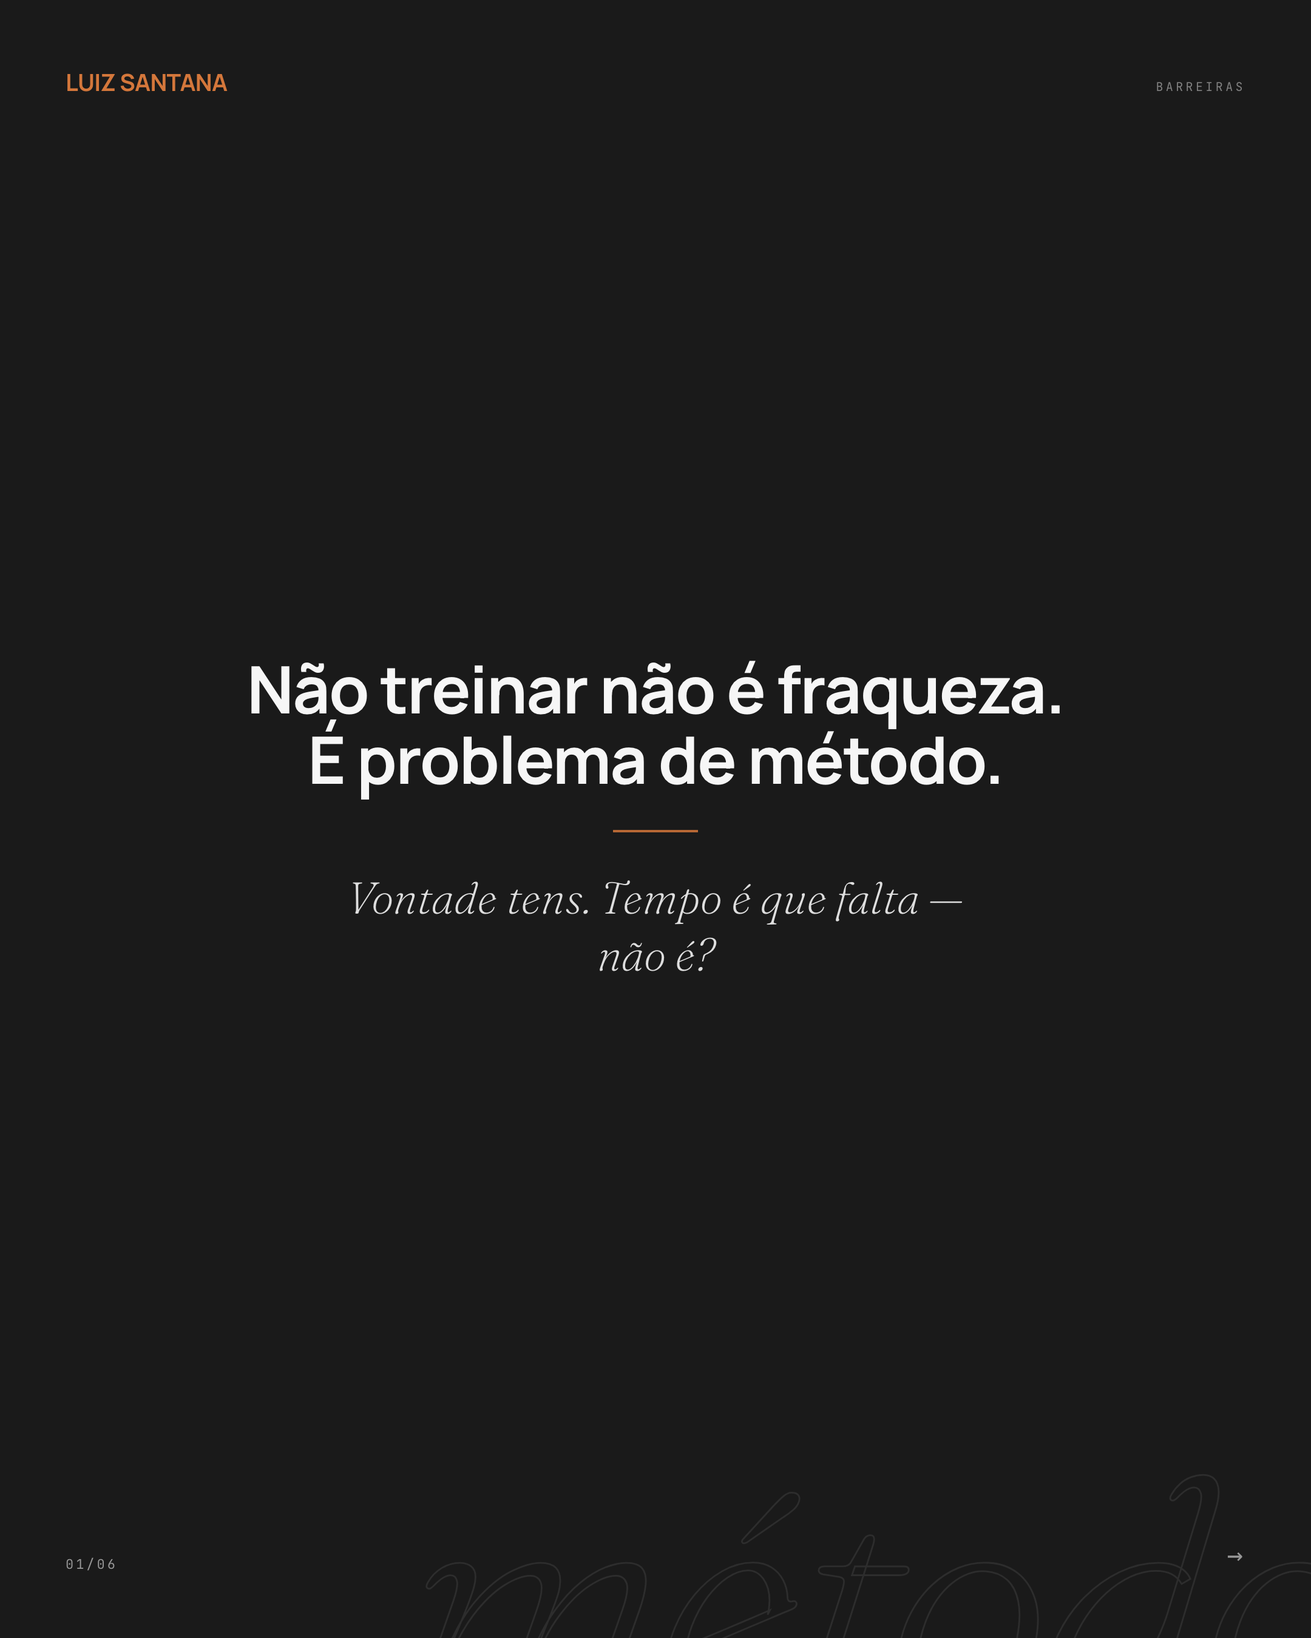
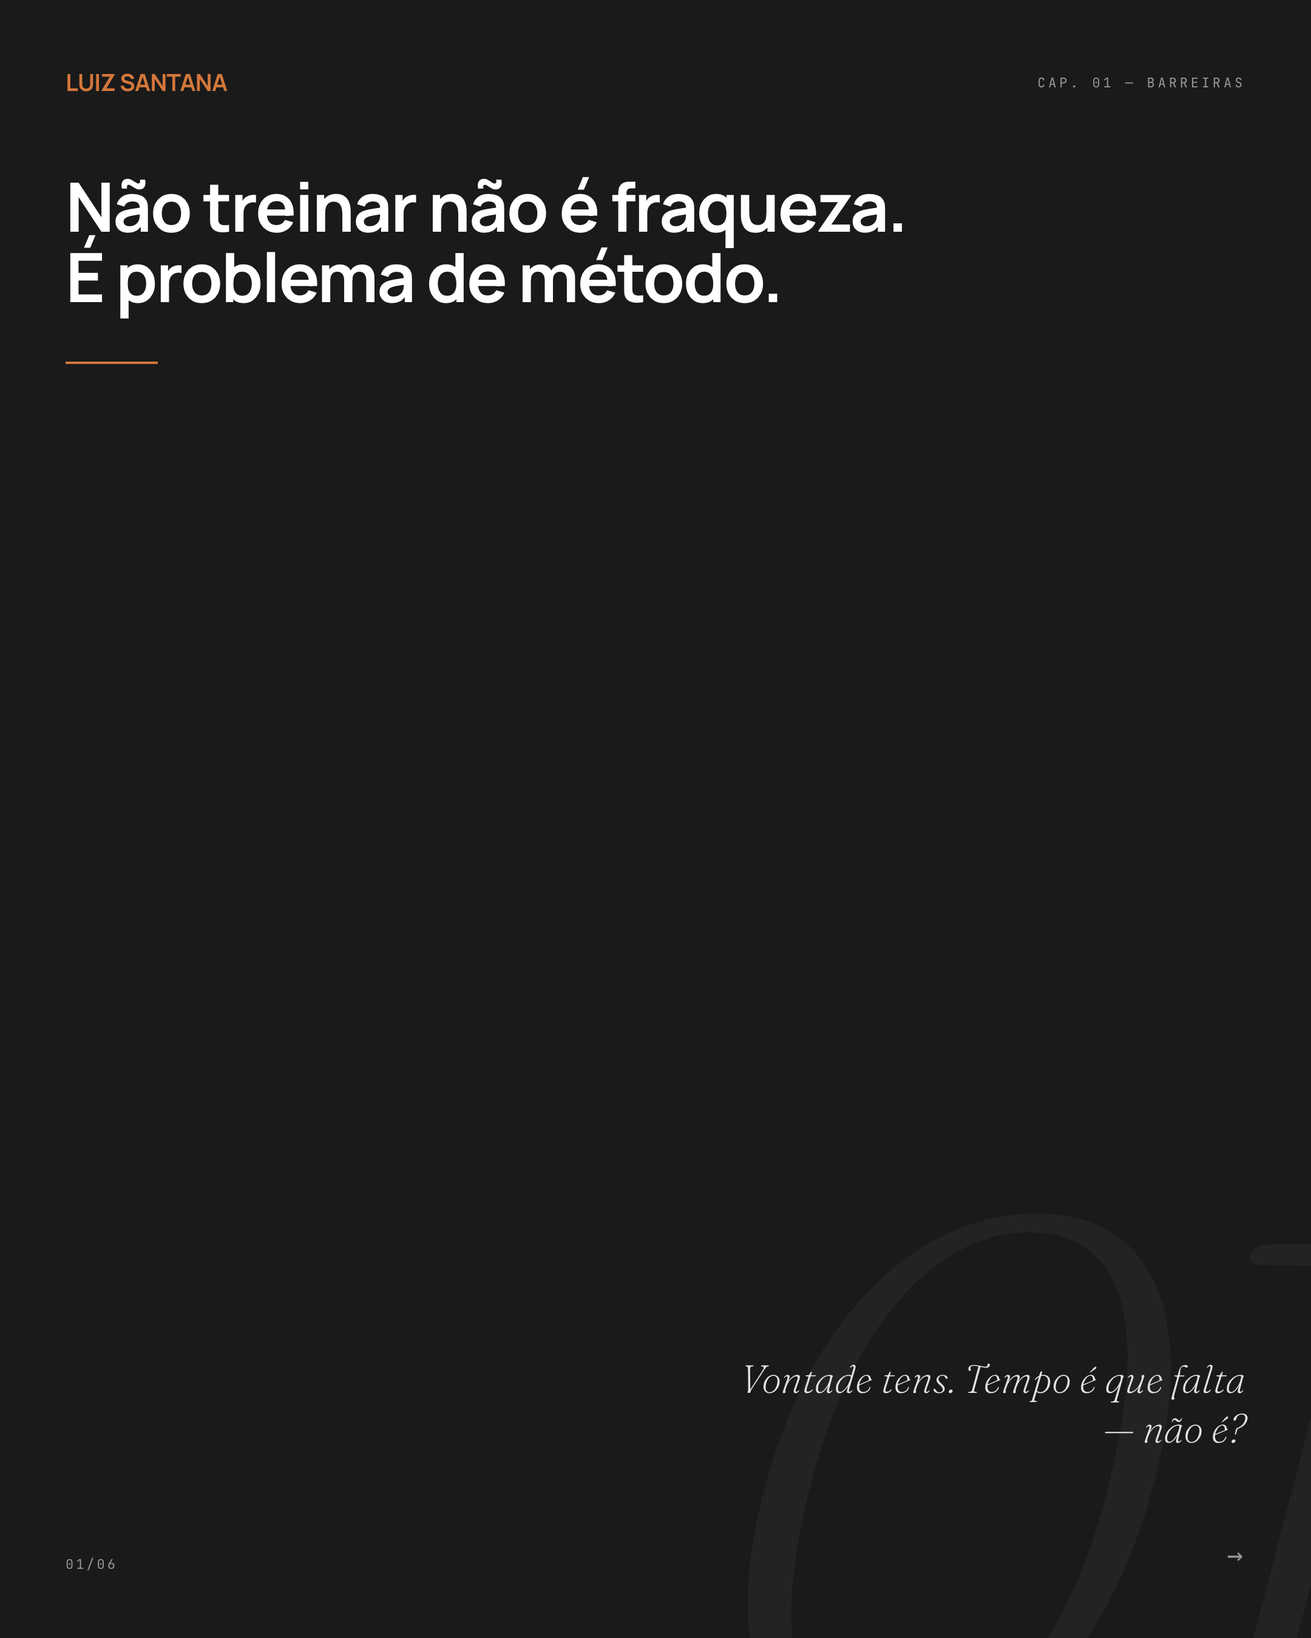
revert(luiz): slide-1 dos 4 carrosséis volta à capa alinhada à esquerda
Recupera a versão do slide 1 anterior ao commit 6a003df ("capa editorial"
centrada), a pedido do cliente. Reversão cirúrgica: só o slide 1 (bloco CSS
#slide-1 + <article id="slide-1"> + slide_01.png/jpg) volta atrás; slides 2-6
ficam intactos, incluindo a correção eletroestimulação (b2a4f3a) e o bloco
"coerência interiores".

c02 e c04 re-renderizados após corrigir a grafia da versão antiga
("Electroestimulação"→"Eletroestimulação", "EMS"→"Eletroestimulação") —
0 ocorrências de EMS/Electro nos 4 slides. APP_VERSION 20260527-1230.

diff --git a/public/aprovacao-luiz-202605/brands/luiz_santana/output/2026-05/carrosseis/c04-b2b-ferramenta.html b/public/aprovacao-luiz-202605/brands/luiz_santana/output/2026-05/carrosseis/c04-b2b-ferramenta.html
@@ -142,16 +142,16 @@ h1, h2, h3, p, blockquote, .num {
   text-wrap: pretty;
 }
 
-/* slide-1 editorial cover v7 */
-#slide-1 { padding: clamp(36px, 5vw, 64px) !important; overflow: hidden; }
-#slide-1 .slide__top { gap: clamp(16px, 3vw, 32px); align-items: baseline; }
-#slide-1 .cap-index { font-family: var(--font-mono); font-size: 10px; letter-spacing: 0.22em; text-transform: uppercase; color: rgba(255,255,255,0.45); }
-#slide-1 .bg-word { position: absolute; bottom: -6vh; right: -3vw; font-family: var(--font-serif); font-style: italic; font-weight: 200; font-size: clamp(170px, 26vw, 320px); color: transparent; -webkit-text-stroke: 1.4px rgba(255,255,255,0.085); letter-spacing: -0.045em; line-height: 0.82; user-select: none; pointer-events: none; z-index: 0; white-space: nowrap; text-transform: lowercase; }
-#slide-1.slide--photo .bg-word { -webkit-text-stroke: 1.4px rgba(255,255,255,0.18); }
-#slide-1 .slide__body { display: grid !important; grid-template-rows: auto auto auto !important; align-content: center !important; justify-items: center !important; gap: clamp(18px, 2.8vh, 30px) !important; position: relative; z-index: 1; padding-top: 0 !important; padding-bottom: 0 !important; }
-#slide-1 .slide__body h1 { font-family: var(--font-display) !important; font-weight: 600 !important; font-size: clamp(32px, 5vw, 58px) !important; line-height: 1.08 !important; letter-spacing: -0.02em !important; max-width: 22ch !important; justify-self: center !important; text-align: center; text-wrap: balance; color: rgba(255,255,255,0.96); }
-#slide-1 .accent-rule { width: clamp(40px, 6.5vw, 80px); height: 2px; background: var(--accent); justify-self: center !important; opacity: 0.85; }
-#slide-1 .slide__hook { font-family: var(--font-serif) !important; font-style: italic; font-weight: 300; font-size: clamp(24px, 3.4vw, 38px) !important; line-height: 1.28; color: rgba(255,255,255,0.86) !important; max-width: 24ch !important; justify-self: center !important; text-align: center; text-wrap: pretty; }
+/* slide-1 editorial cover v3 */
+#slide-1 { padding: clamp(36px, 5vw, 64px) !important; }
+#slide-1 .slide__top { gap: clamp(16px, 3vw, 32px); }
+#slide-1 .cap-index { font-family: var(--font-mono); font-size: 11px; letter-spacing: 0.22em; text-transform: uppercase; color: rgba(255,255,255,0.55); }
+#slide-1 .bg-number { position: absolute; bottom: -10%; right: -6%; font-family: var(--font-serif); font-style: italic; font-weight: 200; font-size: clamp(360px, 58vw, 760px); color: rgba(255,255,255,0.045); line-height: 0.85; letter-spacing: -0.06em; user-select: none; pointer-events: none; z-index: 0; }
+#slide-1.slide--photo .bg-number { display: none; }
+#slide-1 .slide__body { display: grid !important; grid-template-rows: auto auto 1fr auto !important; align-content: stretch !important; gap: clamp(20px, 3.2vh, 40px) !important; position: relative; z-index: 1; padding-top: clamp(20px, 5vh, 60px); padding-bottom: clamp(10px, 3vh, 30px); }
+#slide-1 .slide__body h1 { font-family: var(--font-display) !important; font-weight: 700 !important; font-size: clamp(32px, 5.2vw, 68px) !important; line-height: 1.04 !important; letter-spacing: -0.025em !important; max-width: 19ch !important; justify-self: start; text-wrap: balance; }
+#slide-1 .accent-rule { width: clamp(44px, 7vw, 96px); height: 2px; background: var(--accent); justify-self: start; align-self: start; }
+#slide-1 .slide__hook { font-family: var(--font-serif) !important; font-style: italic; font-weight: 200; font-size: clamp(22px, 3vw, 40px) !important; line-height: 1.25; color: rgba(255,255,255,0.88) !important; max-width: 22ch !important; justify-self: end !important; text-align: right; align-self: end; text-wrap: pretty; }
 #slide-1.slide--photo .slide__hook { color: rgba(255,255,255,0.96) !important; text-shadow: 0 2px 18px rgba(0,0,0,0.45); }
 #slide-1.slide--photo .slide__body h1 { text-shadow: 0 2px 22px rgba(0,0,0,0.55); }
 /* coerência interiores */
@@ -165,12 +165,12 @@ h1, h2, h3, p, blockquote, .num {
 
 <article class="slide slide--type" id="slide-1">
   
-  <div class="bg-word" aria-hidden="true">negócio</div>
-  <div class="slide__top"><span class="brand-glyph">Luiz Santana</span><span class="cap-index">Negócio</span></div>
+  <div class="bg-number" aria-hidden="true">04</div>
+  <div class="slide__top"><span class="brand-glyph">Luiz Santana</span><span class="cap-index">Cap. 04 — Negócio</span></div>
   <div class="slide__body">
     <h1>Eletroestimulação não é&nbsp;só treino. É&nbsp;linha de&nbsp;negócio.</h1>
     <div class="accent-rule"></div>
-    <p class="slide__hook">Treinar menos, ganhar mais — e&nbsp;os teus clientes agradecem.</p>
+    <p class="slide__hook">Tens um espaço parado — ou&nbsp;uma linha de&nbsp;receita por abrir?</p>
   </div>
   <div class="slide__bottom"><span>01/06</span><span class="arrow">→</span></div>
 </article>

diff --git a/public/aprovacao-luiz-202605/brands/luiz_santana/output/2026-05/carrosseis/c02-metodo-ciencia.html b/public/aprovacao-luiz-202605/brands/luiz_santana/output/2026-05/carrosseis/c02-metodo-ciencia.html
@@ -142,16 +142,16 @@ h1, h2, h3, p, blockquote, .num {
   text-wrap: pretty;
 }
 
-/* slide-1 editorial cover v7 */
-#slide-1 { padding: clamp(36px, 5vw, 64px) !important; overflow: hidden; }
-#slide-1 .slide__top { gap: clamp(16px, 3vw, 32px); align-items: baseline; }
-#slide-1 .cap-index { font-family: var(--font-mono); font-size: 10px; letter-spacing: 0.22em; text-transform: uppercase; color: rgba(255,255,255,0.45); }
-#slide-1 .bg-word { position: absolute; bottom: -6vh; right: -3vw; font-family: var(--font-serif); font-style: italic; font-weight: 200; font-size: clamp(170px, 26vw, 320px); color: transparent; -webkit-text-stroke: 1.4px rgba(255,255,255,0.085); letter-spacing: -0.045em; line-height: 0.82; user-select: none; pointer-events: none; z-index: 0; white-space: nowrap; text-transform: lowercase; }
-#slide-1.slide--photo .bg-word { -webkit-text-stroke: 1.4px rgba(255,255,255,0.18); }
-#slide-1 .slide__body { display: grid !important; grid-template-rows: auto auto auto !important; align-content: center !important; justify-items: center !important; gap: clamp(18px, 2.8vh, 30px) !important; position: relative; z-index: 1; padding-top: 0 !important; padding-bottom: 0 !important; }
-#slide-1 .slide__body h1 { font-family: var(--font-display) !important; font-weight: 600 !important; font-size: clamp(32px, 5vw, 58px) !important; line-height: 1.08 !important; letter-spacing: -0.02em !important; max-width: 22ch !important; justify-self: center !important; text-align: center; text-wrap: balance; color: rgba(255,255,255,0.96); }
-#slide-1 .accent-rule { width: clamp(40px, 6.5vw, 80px); height: 2px; background: var(--accent); justify-self: center !important; opacity: 0.85; }
-#slide-1 .slide__hook { font-family: var(--font-serif) !important; font-style: italic; font-weight: 300; font-size: clamp(24px, 3.4vw, 38px) !important; line-height: 1.28; color: rgba(255,255,255,0.86) !important; max-width: 24ch !important; justify-self: center !important; text-align: center; text-wrap: pretty; }
+/* slide-1 editorial cover v3 */
+#slide-1 { padding: clamp(36px, 5vw, 64px) !important; }
+#slide-1 .slide__top { gap: clamp(16px, 3vw, 32px); }
+#slide-1 .cap-index { font-family: var(--font-mono); font-size: 11px; letter-spacing: 0.22em; text-transform: uppercase; color: rgba(255,255,255,0.55); }
+#slide-1 .bg-number { position: absolute; bottom: -10%; right: -6%; font-family: var(--font-serif); font-style: italic; font-weight: 200; font-size: clamp(360px, 58vw, 760px); color: rgba(255,255,255,0.045); line-height: 0.85; letter-spacing: -0.06em; user-select: none; pointer-events: none; z-index: 0; }
+#slide-1.slide--photo .bg-number { display: none; }
+#slide-1 .slide__body { display: grid !important; grid-template-rows: auto auto 1fr auto !important; align-content: stretch !important; gap: clamp(20px, 3.2vh, 40px) !important; position: relative; z-index: 1; padding-top: clamp(20px, 5vh, 60px); padding-bottom: clamp(10px, 3vh, 30px); }
+#slide-1 .slide__body h1 { font-family: var(--font-display) !important; font-weight: 700 !important; font-size: clamp(32px, 5.2vw, 68px) !important; line-height: 1.04 !important; letter-spacing: -0.025em !important; max-width: 19ch !important; justify-self: start; text-wrap: balance; }
+#slide-1 .accent-rule { width: clamp(44px, 7vw, 96px); height: 2px; background: var(--accent); justify-self: start; align-self: start; }
+#slide-1 .slide__hook { font-family: var(--font-serif) !important; font-style: italic; font-weight: 200; font-size: clamp(22px, 3vw, 40px) !important; line-height: 1.25; color: rgba(255,255,255,0.88) !important; max-width: 22ch !important; justify-self: end !important; text-align: right; align-self: end; text-wrap: pretty; }
 #slide-1.slide--photo .slide__hook { color: rgba(255,255,255,0.96) !important; text-shadow: 0 2px 18px rgba(0,0,0,0.45); }
 #slide-1.slide--photo .slide__body h1 { text-shadow: 0 2px 22px rgba(0,0,0,0.55); }
 /* coerência interiores */
@@ -165,12 +165,12 @@ h1, h2, h3, p, blockquote, .num {
 
 <article class="slide slide--photo" id="slide-1">
   
-  <div class="bg-word" aria-hidden="true">evidência</div>
-  <div class="slide__top"><span class="brand-glyph">Luiz Santana</span><span class="cap-index">Método</span></div>
+  <div class="bg-number" aria-hidden="true">02</div>
+  <div class="slide__top"><span class="brand-glyph">Luiz Santana</span><span class="cap-index">Cap. 02 — Método</span></div>
   <div class="slide__body">
     <h1>Eletroestimulação — o&nbsp;que a&nbsp;evidência mostra.</h1>
     <div class="accent-rule"></div>
-    <p class="slide__hook">Treinar pouco pode dar mais resultado? A&nbsp;ciência diz que sim.</p>
+    <p class="slide__hook">Treinas há&nbsp;anos. Quantas fibras estás mesmo a&nbsp;activar?</p>
   </div>
   <div class="slide__bottom"><span>01/06</span><span class="arrow">→</span></div>
 </article>

diff --git a/public/aprovacao-luiz-202605/brands/luiz_santana/output/2026-05/carrosseis/c03-origem-percurso.html b/public/aprovacao-luiz-202605/brands/luiz_santana/output/2026-05/carrosseis/c03-origem-percurso.html
@@ -142,16 +142,16 @@ h1, h2, h3, p, blockquote, .num {
   text-wrap: pretty;
 }
 
-/* slide-1 editorial cover v7 */
-#slide-1 { padding: clamp(36px, 5vw, 64px) !important; overflow: hidden; }
-#slide-1 .slide__top { gap: clamp(16px, 3vw, 32px); align-items: baseline; }
-#slide-1 .cap-index { font-family: var(--font-mono); font-size: 10px; letter-spacing: 0.22em; text-transform: uppercase; color: rgba(255,255,255,0.45); }
-#slide-1 .bg-word { position: absolute; bottom: -6vh; right: -3vw; font-family: var(--font-serif); font-style: italic; font-weight: 200; font-size: clamp(170px, 26vw, 320px); color: transparent; -webkit-text-stroke: 1.4px rgba(255,255,255,0.085); letter-spacing: -0.045em; line-height: 0.82; user-select: none; pointer-events: none; z-index: 0; white-space: nowrap; text-transform: lowercase; }
-#slide-1.slide--photo .bg-word { -webkit-text-stroke: 1.4px rgba(255,255,255,0.18); }
-#slide-1 .slide__body { display: grid !important; grid-template-rows: auto auto auto !important; align-content: center !important; justify-items: center !important; gap: clamp(18px, 2.8vh, 30px) !important; position: relative; z-index: 1; padding-top: 0 !important; padding-bottom: 0 !important; }
-#slide-1 .slide__body h1 { font-family: var(--font-display) !important; font-weight: 600 !important; font-size: clamp(32px, 5vw, 58px) !important; line-height: 1.08 !important; letter-spacing: -0.02em !important; max-width: 22ch !important; justify-self: center !important; text-align: center; text-wrap: balance; color: rgba(255,255,255,0.96); }
-#slide-1 .accent-rule { width: clamp(40px, 6.5vw, 80px); height: 2px; background: var(--accent); justify-self: center !important; opacity: 0.85; }
-#slide-1 .slide__hook { font-family: var(--font-serif) !important; font-style: italic; font-weight: 300; font-size: clamp(24px, 3.4vw, 38px) !important; line-height: 1.28; color: rgba(255,255,255,0.86) !important; max-width: 24ch !important; justify-self: center !important; text-align: center; text-wrap: pretty; }
+/* slide-1 editorial cover v3 */
+#slide-1 { padding: clamp(36px, 5vw, 64px) !important; }
+#slide-1 .slide__top { gap: clamp(16px, 3vw, 32px); }
+#slide-1 .cap-index { font-family: var(--font-mono); font-size: 11px; letter-spacing: 0.22em; text-transform: uppercase; color: rgba(255,255,255,0.55); }
+#slide-1 .bg-number { position: absolute; bottom: -10%; right: -6%; font-family: var(--font-serif); font-style: italic; font-weight: 200; font-size: clamp(360px, 58vw, 760px); color: rgba(255,255,255,0.045); line-height: 0.85; letter-spacing: -0.06em; user-select: none; pointer-events: none; z-index: 0; }
+#slide-1.slide--photo .bg-number { display: none; }
+#slide-1 .slide__body { display: grid !important; grid-template-rows: auto auto 1fr auto !important; align-content: stretch !important; gap: clamp(20px, 3.2vh, 40px) !important; position: relative; z-index: 1; padding-top: clamp(20px, 5vh, 60px); padding-bottom: clamp(10px, 3vh, 30px); }
+#slide-1 .slide__body h1 { font-family: var(--font-display) !important; font-weight: 700 !important; font-size: clamp(32px, 5.2vw, 68px) !important; line-height: 1.04 !important; letter-spacing: -0.025em !important; max-width: 19ch !important; justify-self: start; text-wrap: balance; }
+#slide-1 .accent-rule { width: clamp(44px, 7vw, 96px); height: 2px; background: var(--accent); justify-self: start; align-self: start; }
+#slide-1 .slide__hook { font-family: var(--font-serif) !important; font-style: italic; font-weight: 200; font-size: clamp(22px, 3vw, 40px) !important; line-height: 1.25; color: rgba(255,255,255,0.88) !important; max-width: 22ch !important; justify-self: end !important; text-align: right; align-self: end; text-wrap: pretty; }
 #slide-1.slide--photo .slide__hook { color: rgba(255,255,255,0.96) !important; text-shadow: 0 2px 18px rgba(0,0,0,0.45); }
 #slide-1.slide--photo .slide__body h1 { text-shadow: 0 2px 22px rgba(0,0,0,0.55); }
 /* coerência interiores */
@@ -165,8 +165,8 @@ h1, h2, h3, p, blockquote, .num {
 
 <article class="slide slide--type" id="slide-1">
   
-  <div class="bg-word" aria-hidden="true">década</div>
-  <div class="slide__top"><span class="brand-glyph">Luiz Santana</span><span class="cap-index">Percurso</span></div>
+  <div class="bg-number" aria-hidden="true">03</div>
+  <div class="slide__top"><span class="brand-glyph">Luiz Santana</span><span class="cap-index">Cap. 03 — Percurso</span></div>
   <div class="slide__body">
     <h1>Mais de&nbsp;uma década a&nbsp;construir o&nbsp;treino inteligente em&nbsp;Portugal.</h1>
     <div class="accent-rule"></div>

diff --git a/public/aprovacao-luiz-202605/brands/luiz_santana/output/2026-05/carrosseis/c01-barreiras.html b/public/aprovacao-luiz-202605/brands/luiz_santana/output/2026-05/carrosseis/c01-barreiras.html
@@ -142,16 +142,16 @@ h1, h2, h3, p, blockquote, .num {
   text-wrap: pretty;
 }
 
-/* slide-1 editorial cover v7 */
-#slide-1 { padding: clamp(36px, 5vw, 64px) !important; overflow: hidden; }
-#slide-1 .slide__top { gap: clamp(16px, 3vw, 32px); align-items: baseline; }
-#slide-1 .cap-index { font-family: var(--font-mono); font-size: 10px; letter-spacing: 0.22em; text-transform: uppercase; color: rgba(255,255,255,0.45); }
-#slide-1 .bg-word { position: absolute; bottom: -6vh; right: -3vw; font-family: var(--font-serif); font-style: italic; font-weight: 200; font-size: clamp(170px, 26vw, 320px); color: transparent; -webkit-text-stroke: 1.4px rgba(255,255,255,0.085); letter-spacing: -0.045em; line-height: 0.82; user-select: none; pointer-events: none; z-index: 0; white-space: nowrap; text-transform: lowercase; }
-#slide-1.slide--photo .bg-word { -webkit-text-stroke: 1.4px rgba(255,255,255,0.18); }
-#slide-1 .slide__body { display: grid !important; grid-template-rows: auto auto auto !important; align-content: center !important; justify-items: center !important; gap: clamp(18px, 2.8vh, 30px) !important; position: relative; z-index: 1; padding-top: 0 !important; padding-bottom: 0 !important; }
-#slide-1 .slide__body h1 { font-family: var(--font-display) !important; font-weight: 600 !important; font-size: clamp(32px, 5vw, 58px) !important; line-height: 1.08 !important; letter-spacing: -0.02em !important; max-width: 22ch !important; justify-self: center !important; text-align: center; text-wrap: balance; color: rgba(255,255,255,0.96); }
-#slide-1 .accent-rule { width: clamp(40px, 6.5vw, 80px); height: 2px; background: var(--accent); justify-self: center !important; opacity: 0.85; }
-#slide-1 .slide__hook { font-family: var(--font-serif) !important; font-style: italic; font-weight: 300; font-size: clamp(24px, 3.4vw, 38px) !important; line-height: 1.28; color: rgba(255,255,255,0.86) !important; max-width: 24ch !important; justify-self: center !important; text-align: center; text-wrap: pretty; }
+/* slide-1 editorial cover v3 */
+#slide-1 { padding: clamp(36px, 5vw, 64px) !important; }
+#slide-1 .slide__top { gap: clamp(16px, 3vw, 32px); }
+#slide-1 .cap-index { font-family: var(--font-mono); font-size: 11px; letter-spacing: 0.22em; text-transform: uppercase; color: rgba(255,255,255,0.55); }
+#slide-1 .bg-number { position: absolute; bottom: -10%; right: -6%; font-family: var(--font-serif); font-style: italic; font-weight: 200; font-size: clamp(360px, 58vw, 760px); color: rgba(255,255,255,0.045); line-height: 0.85; letter-spacing: -0.06em; user-select: none; pointer-events: none; z-index: 0; }
+#slide-1.slide--photo .bg-number { display: none; }
+#slide-1 .slide__body { display: grid !important; grid-template-rows: auto auto 1fr auto !important; align-content: stretch !important; gap: clamp(20px, 3.2vh, 40px) !important; position: relative; z-index: 1; padding-top: clamp(20px, 5vh, 60px); padding-bottom: clamp(10px, 3vh, 30px); }
+#slide-1 .slide__body h1 { font-family: var(--font-display) !important; font-weight: 700 !important; font-size: clamp(32px, 5.2vw, 68px) !important; line-height: 1.04 !important; letter-spacing: -0.025em !important; max-width: 19ch !important; justify-self: start; text-wrap: balance; }
+#slide-1 .accent-rule { width: clamp(44px, 7vw, 96px); height: 2px; background: var(--accent); justify-self: start; align-self: start; }
+#slide-1 .slide__hook { font-family: var(--font-serif) !important; font-style: italic; font-weight: 200; font-size: clamp(22px, 3vw, 40px) !important; line-height: 1.25; color: rgba(255,255,255,0.88) !important; max-width: 22ch !important; justify-self: end !important; text-align: right; align-self: end; text-wrap: pretty; }
 #slide-1.slide--photo .slide__hook { color: rgba(255,255,255,0.96) !important; text-shadow: 0 2px 18px rgba(0,0,0,0.45); }
 #slide-1.slide--photo .slide__body h1 { text-shadow: 0 2px 22px rgba(0,0,0,0.55); }
 /* coerência interiores */
@@ -165,8 +165,8 @@ h1, h2, h3, p, blockquote, .num {
 
 <article class="slide slide--type" id="slide-1">
   
-  <div class="bg-word" aria-hidden="true">método</div>
-  <div class="slide__top"><span class="brand-glyph">Luiz Santana</span><span class="cap-index">Barreiras</span></div>
+  <div class="bg-number" aria-hidden="true">01</div>
+  <div class="slide__top"><span class="brand-glyph">Luiz Santana</span><span class="cap-index">Cap. 01 — Barreiras</span></div>
   <div class="slide__body">
     <h1>Não treinar não é&nbsp;fraqueza. É&nbsp;problema de&nbsp;método.</h1>
     <div class="accent-rule"></div>

diff --git a/public/aprovacao-luiz-202605/js/config.js b/public/aprovacao-luiz-202605/js/config.js
@@ -33,4 +33,4 @@ export const AUTH_ENABLED = false;
 // Versão do app. Comparada periodicamente contra /version.txt no servidor.
 // Se divergir, o badge muda para "🔄 Nova versão" e o user sabe que está
 // numa sessão desactualizada. Bump em cada deploy importante.
-export const APP_VERSION = "20260527-0050";
+export const APP_VERSION = "20260527-1230";

diff --git a/public/aprovacao-luiz-202605/index.html b/public/aprovacao-luiz-202605/index.html
@@ -3,7 +3,7 @@
 <head>
 <meta charset="utf-8" />
 <meta name="viewport" content="width=device-width,initial-scale=1" />
-<meta name="app-version" content="20260527-0050" />
+<meta name="app-version" content="20260527-1230" />
 <title>Aprovação · Conteúdo</title>
 
 <script>
